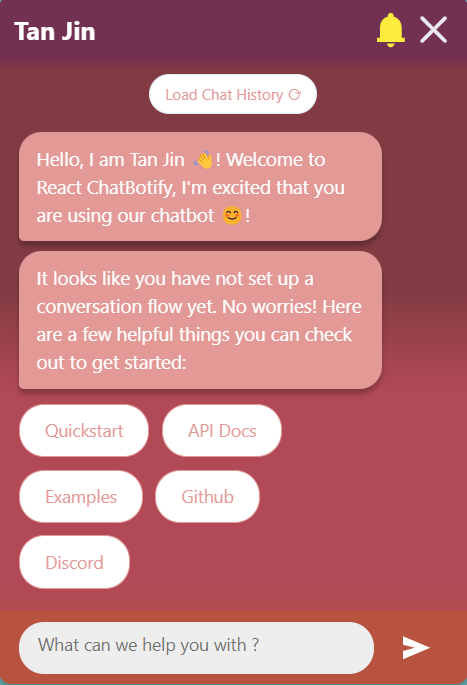
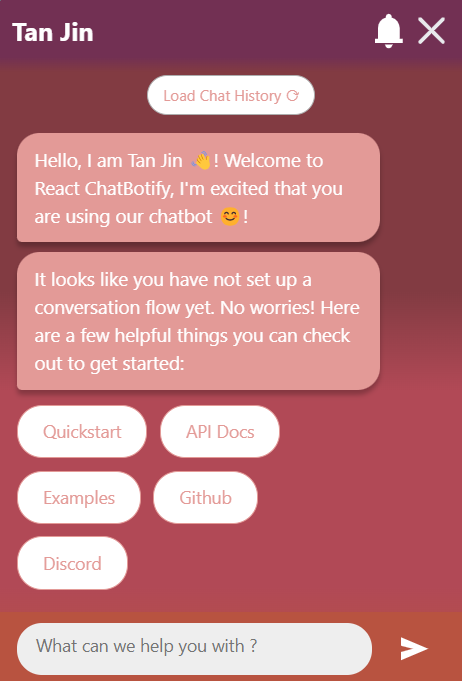
Created Orange Sunset theme

diff --git a/themes/sunset_orange/0.1.0/styles.css b/themes/sunset_orange/0.1.0/styles.css
@@ -1,0 +1,4 @@
+.rcb-close-chat-icon,
+.rcb-notification-icon-on {
+  fill: #FFFFFF;
+}
